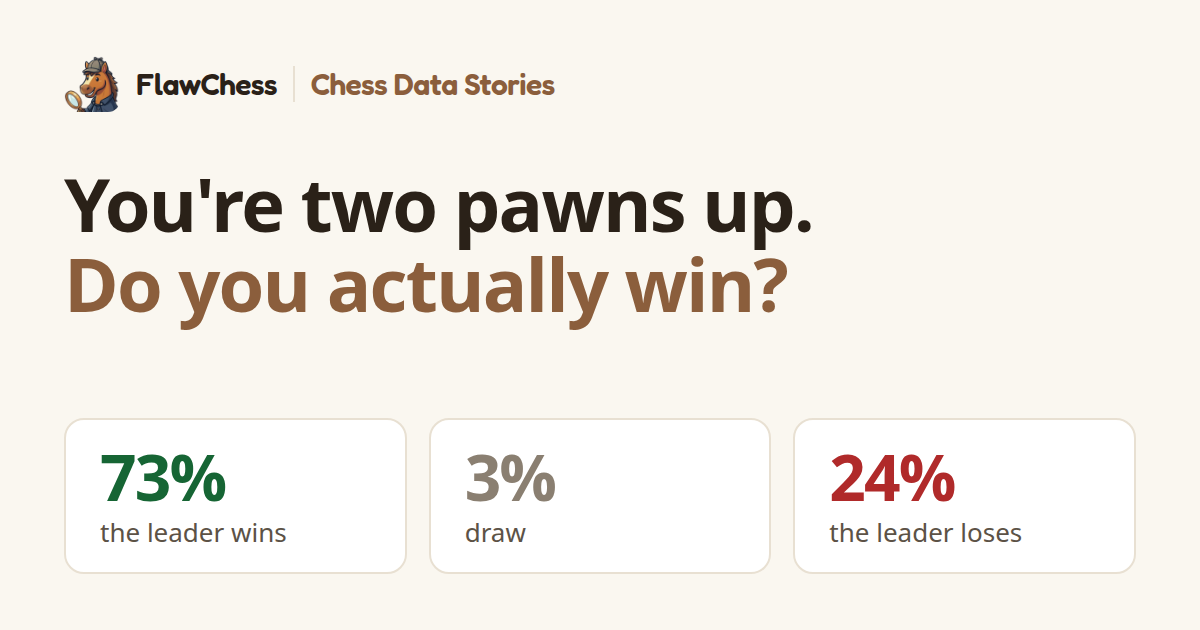
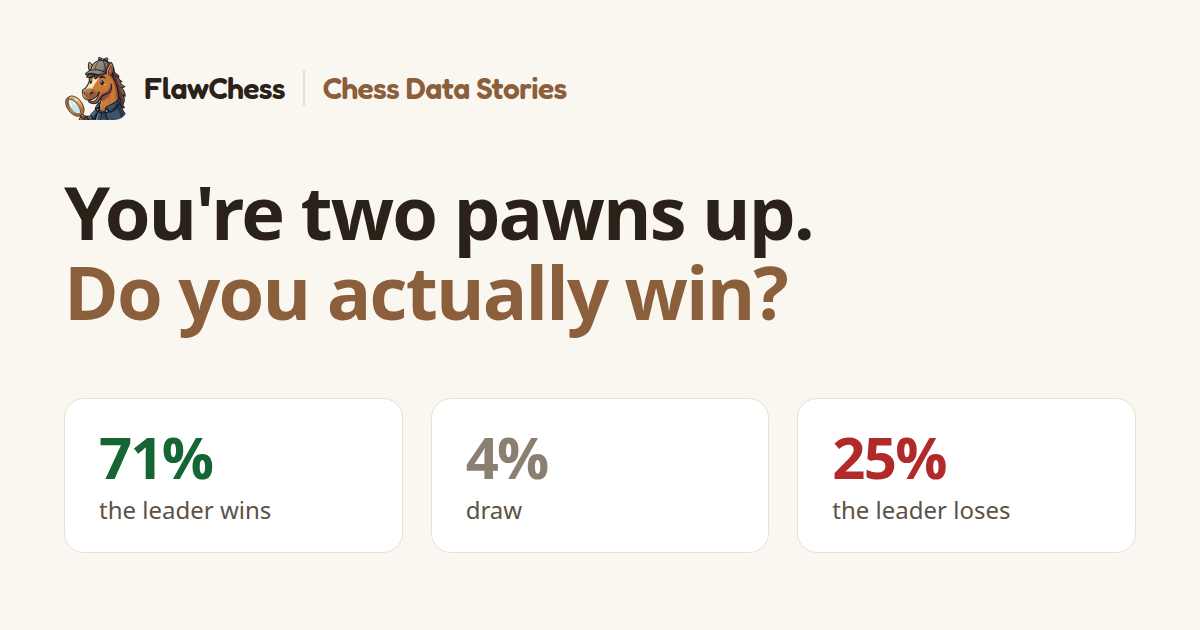
feat(stories): move two-pawns-up story to the equal-footing (v2) basis
Updates every quoted figure, data table, and chart data block to the v2
report (opponents within 100 rating points): hero tiles 73/3/24 -> 71/4/25,
the 2400 leader-loses headline 18.4% -> 21.8% ('more than one in five'),
prevalence, lead-size bands, within-band gradients, and the board/clock
split. Regenerates the social card, softens the masters-hold-better copy to
the shallower gradient, adds the matching filter and selection-tilt notes to
the About box, points the report link at v2, and bumps the sitemap lastmod
plus the landing-card game count.

Claude-Session: https://claude.ai/code/session_01T2jEuk16v2CcJRXQjkZCNT

diff --git a/stories/two-pawns-up/index.html b/stories/two-pawns-up/index.html
@@ -4,33 +4,33 @@
 <meta charset="utf-8">
 <meta name="viewport" content="width=device-width, initial-scale=1">
 <title>Two Pawns Up: Do You Actually Win? | Chess Data Stories</title>
-<meta name="description" content="What 460,604 Lichess games say about converting a two-pawn advantage, by rating and time control. A Chess Data Stories analysis.">
+<meta name="description" content="What 329,518 evenly matched Lichess games say about converting a two-pawn advantage, by rating and time control. A Chess Data Stories analysis.">
 <link rel="canonical" href="https://stories.flawchess.com/two-pawns-up/">
 <link rel="icon" href="../logo.png">
 <meta property="og:type" content="article">
 <meta property="og:site_name" content="Chess Data Stories">
 <meta property="og:title" content="You're two pawns up. Do you actually win?">
-<meta property="og:description" content="What 460,604 Lichess games say about converting a two-pawn advantage, by rating and time control.">
+<meta property="og:description" content="What 329,518 evenly matched Lichess games say about converting a two-pawn advantage, by rating and time control.">
 <meta property="og:url" content="https://stories.flawchess.com/two-pawns-up/">
 <meta property="og:image" content="https://stories.flawchess.com/two-pawns-up/social-card.png">
 <meta property="og:image:width" content="1200">
 <meta property="og:image:height" content="630">
-<meta property="og:image:alt" content="You're two pawns up. Do you actually win? The leader wins 73%, draws 3%, loses 24%.">
+<meta property="og:image:alt" content="You're two pawns up. Do you actually win? The leader wins 71%, draws 4%, loses 25%.">
 <meta property="article:published_time" content="2026-08-15">
 <meta property="article:author" content="Adrian Imfeld">
 <meta property="article:section" content="Chess">
 <meta name="twitter:card" content="summary_large_image">
 <meta name="twitter:title" content="You're two pawns up. Do you actually win?">
-<meta name="twitter:description" content="What 460,604 Lichess games say about converting a two-pawn advantage, by rating and time control.">
+<meta name="twitter:description" content="What 329,518 evenly matched Lichess games say about converting a two-pawn advantage, by rating and time control.">
 <meta name="twitter:image" content="https://stories.flawchess.com/two-pawns-up/social-card.png">
 <script type="application/ld+json">
 {
   "@context": "https://schema.org",
   "@type": "Article",
   "headline": "You're two pawns up. Do you actually win?",
-  "description": "What 460,604 Lichess games say about converting a two-pawn advantage, by rating and time control.",
+  "description": "What 329,518 evenly matched Lichess games say about converting a two-pawn advantage, by rating and time control.",
   "datePublished": "2026-08-15",
-  "dateModified": "2026-08-18",
+  "dateModified": "2026-08-19",
   "url": "https://stories.flawchess.com/two-pawns-up/",
   "mainEntityOfPage": {"@type": "WebPage", "@id": "https://stories.flawchess.com/two-pawns-up/"},
   "image": {"@type": "ImageObject", "url": "https://stories.flawchess.com/two-pawns-up/social-card.png", "width": 1200, "height": 630},
@@ -180,21 +180,22 @@
 <main class="wrap">
 
 <div class="hero">
-  <div class="kicker"><a href="../" data-testid="link-stories-index">A Chess Data Story</a> &middot; <time datetime="2026-08-15">August 15, 2026</time> &middot; 460,604 Lichess games screened</div>
+  <div class="kicker"><a href="../" data-testid="link-stories-index">A Chess Data Story</a> &middot; <time datetime="2026-08-15">August 15, 2026</time> (updated <time datetime="2026-08-19">August 19</time>) &middot; 329,518 Lichess games analyzed</div>
   <h1>You're two pawns up.<br><span class="accent">Do you actually win?</span></h1>
   <p class="sub">In one of our recent exchanges, GM
   Noël Studer of <a href="https://nextlevelchess.com/" data-umami-event="outbound-next-level-chess" data-testid="link-next-level-chess">Next Level Chess</a>
   suggested looking into what actually becomes of a big engine advantage at the end of the opening. So I had a close look at
-  games in the FlawChess benchmark database where a player reached the middlegame with a Stockfish evaluation of
+  games in the FlawChess benchmark database where a player, facing an opponent of nearly the same rating, reached the
+  middlegame with a Stockfish evaluation of
   <b>at least +2.0</b>, the engine's way of saying "about two pawns up". That can mean extra material, a superior
   position, or both. Then I checked how those games actually ended for different rating levels and time controls.
   The answer might change how you think about "winning positions".</p>
   <div class="hero-stats" aria-label="Overall outcomes from a two-pawn-or-better middlegame lead">
-    <div class="tile win"><div class="big">73%</div><div class="lbl">the leader wins</div></div>
-    <div class="tile draw"><div class="big">3%</div><div class="lbl">draw</div></div>
-    <div class="tile loss"><div class="big">24%</div><div class="lbl">the leader <b>loses</b></div></div>
+    <div class="tile win"><div class="big">71%</div><div class="lbl">the leader wins</div></div>
+    <div class="tile draw"><div class="big">4%</div><div class="lbl">draw</div></div>
+    <div class="tile loss"><div class="big">25%</div><div class="lbl">the leader <b>loses</b></div></div>
   </div>
-  <p class="hero-note">All 112,583 games that entered the middlegame at <b>+2.0 or better</b>, all ratings
+  <p class="hero-note">All 82,023 games that entered the middlegame at <b>+2.0 or better</b>, all ratings
   combined. "At least" matters: the median lead here is <b>+3.6 pawns</b>, and a bare two-pawn lead does considerably
   worse than the headline (section 3).</p>
 </div>
@@ -203,7 +204,7 @@
   <div class="card-head"><div class="num">1</div>
   <h2>A two-pawn lead is not a won game, at any level</h2></div>
   <p class="lede">Players who start the middlegame two pawns up or better go on to <b>lose roughly one game in four</b>.
-  And this is not just a beginner problem: even at 2400 Lichess, nearly one of these games in five
+  And this is not just a beginner problem: even at 2400 Lichess, more than one of these games in five
   still ends in defeat for the player who had the advantage.</p>
   <p class="ctitle">Games LOST by the player who entered the middlegame at least two pawns up</p>
   <figure aria-label="Bar chart: how often the leader loses, by rating">
@@ -215,11 +216,11 @@
     <table>
       <thead><tr><th>Rating</th><th>Games with an entry lead</th><th>Median lead</th><th>Leader loses</th></tr></thead>
       <tbody>
-        <tr><td>800</td><td>9,674</td><td>+4.5</td><td>27.3%</td></tr>
-        <tr><td>1200</td><td>29,368</td><td>+4.1</td><td>27%</td></tr>
-        <tr><td>1600</td><td>30,886</td><td>+3.6</td><td>24.7%</td></tr>
-        <tr><td>2000</td><td>24,706</td><td>+3.2</td><td>21.3%</td></tr>
-        <tr><td>2400</td><td>17,949</td><td>+3.0</td><td>18.4%</td></tr>
+        <tr><td>800</td><td>6,998</td><td>+4.4</td><td>27.9%</td></tr>
+        <tr><td>1200</td><td>23,390</td><td>+4.1</td><td>27.9%</td></tr>
+        <tr><td>1600</td><td>24,962</td><td>+3.6</td><td>25.2%</td></tr>
+        <tr><td>2000</td><td>17,469</td><td>+3.1</td><td>22.6%</td></tr>
+        <tr><td>2400</td><td>9,204</td><td>+2.9</td><td>21.8%</td></tr>
       </tbody>
     </table>
   </div></details>
@@ -229,7 +230,7 @@
   <div class="card-head"><div class="num">2</div>
   <h2>Big leads are everywhere at club level, rare among masters</h2></div>
   <p class="lede">At 800, a majority of games (<b>58%</b>) already have a two-pawn advantage
-  for someone when the middlegame starts: openings decide games early. By 2400 that collapses to <b>12%</b>.
+  for someone when the middlegame starts: openings decide games early. By 2400 that collapses to <b>10%</b>.
   Strong players simply don't hand over (or receive) free material in the opening.</p>
   <p class="ctitle">Share of ALL games that begin the middlegame with someone two pawns up</p>
   <figure aria-label="Bar chart: share of games entering the middlegame with a two-pawn advantage, by rating">
@@ -239,11 +240,11 @@
     <table>
       <thead><tr><th>Rating</th><th>Share of games entering with a big lead</th></tr></thead>
       <tbody>
-        <tr><td>800</td><td>58.1%</td></tr>
-        <tr><td>1200</td><td>45.3%</td></tr>
-        <tr><td>1600</td><td>31.2%</td></tr>
-        <tr><td>2000</td><td>19%</td></tr>
-        <tr><td>2400</td><td>12%</td></tr>
+        <tr><td>800</td><td>57.5%</td></tr>
+        <tr><td>1200</td><td>44.5%</td></tr>
+        <tr><td>1600</td><td>30.8%</td></tr>
+        <tr><td>2000</td><td>18.5%</td></tr>
+        <tr><td>2400</td><td>10.3%</td></tr>
       </tbody>
     </table>
   </div></details>
@@ -254,8 +255,8 @@
   <h2>"Two pawns up" usually means more than two pawns</h2></div>
   <p class="lede">Two pawns is the <i>floor</i> of this group, not its typical member. Half of these leads are
   bigger than <b>+3.6 pawns</b>, and roughly one in four is <b>+5 or more</b>, worth about a rook.
-  Size changes everything: a bare two-pawn lead is lost <b>30%</b> of the time, while a five-pawn lead is
-  lost only <b>13.6%</b> of the time. The 24% headline is an average across all of them.</p>
+  Size changes everything: a bare two-pawn lead is lost <b>32%</b> of the time, while a five-pawn lead is
+  lost only <b>14.6%</b> of the time. The 25% headline is an average across all of them.</p>
   <p class="ctitle">Games LOST by the leader, by how big the lead was when the middlegame began</p>
   <figure aria-label="Bar chart: how often the leader loses, by size of the entry advantage">
     <div id="c6"></div>
@@ -267,10 +268,10 @@
     <table>
       <thead><tr><th>Size of the lead</th><th>Games</th><th>Share of games</th><th>Sustained-lead win</th><th>Win after slip</th><th>Draw</th><th>Leader loses</th></tr></thead>
       <tbody>
-        <tr><td>+2 to +3</td><td>40,662</td><td>36.1%</td><td>20.6%</td><td>44.8%</td><td>4.5%</td><td>30.1%</td></tr>
-        <tr><td>+3 to +5</td><td>45,745</td><td>40.6%</td><td>46%</td><td>26.1%</td><td>3.4%</td><td>24.5%</td></tr>
-        <tr><td>+5 to +10</td><td>23,625</td><td>21%</td><td>71.5%</td><td>13.2%</td><td>1.7%</td><td>13.6%</td></tr>
-        <tr><td>+10 or mate</td><td>2,551</td><td>2.3%</td><td>85.4%</td><td>8.3%</td><td>0.6%</td><td>5.7%</td></tr>
+        <tr><td>+2 to +3</td><td>29,561</td><td>36%</td><td>18.9%</td><td>44.9%</td><td>4.4%</td><td>31.8%</td></tr>
+        <tr><td>+3 to +5</td><td>33,691</td><td>41.1%</td><td>43.5%</td><td>27%</td><td>3.6%</td><td>25.9%</td></tr>
+        <tr><td>+5 to +10</td><td>16,938</td><td>20.7%</td><td>69.3%</td><td>14.2%</td><td>1.9%</td><td>14.6%</td></tr>
+        <tr><td>+10 or mate</td><td>1,833</td><td>2.2%</td><td>84.6%</td><td>8.7%</td><td>0.5%</td><td>6.2%</td></tr>
       </tbody>
     </table>
   </div></details>
@@ -282,7 +283,7 @@
   <p class="lede">Split every one of these games into four endings and something odd appears:
   the share of <b>sustained-lead wins</b> (the advantage stays at two pawns or more the whole way
   from middlegame entry to the win) barely moves with
-  rating, sitting near 43% everywhere. It is tempting to conclude that masters are no better at holding on to
+  rating, sitting near 40% everywhere. It is tempting to conclude that masters are no better at holding on to
   a lead. That conclusion is wrong, and the reason is section 3.</p>
   <p class="ctitle">Four outcomes of a two-pawn-or-better middlegame lead</p>
   <div class="legend" id="lg3"></div>
@@ -293,16 +294,16 @@
     <table>
       <thead><tr><th>Rating</th><th>Sustained-lead win</th><th>Win after slip</th><th>Draw</th><th>Leader loses</th></tr></thead>
       <tbody>
-        <tr><td>800</td><td>42.6%</td><td>27.1%</td><td>3%</td><td>27.3%</td></tr>
-        <tr><td>1200</td><td>42.6%</td><td>27.9%</td><td>2.5%</td><td>27%</td></tr>
-        <tr><td>1600</td><td>42.7%</td><td>29.4%</td><td>3.2%</td><td>24.7%</td></tr>
-        <tr><td>2000</td><td>42.6%</td><td>31.8%</td><td>4.2%</td><td>21.3%</td></tr>
-        <tr><td>2400</td><td>45.6%</td><td>31.7%</td><td>4.3%</td><td>18.4%</td></tr>
+        <tr><td>800</td><td>40.8%</td><td>28.2%</td><td>3.1%</td><td>27.9%</td></tr>
+        <tr><td>1200</td><td>41.1%</td><td>28.5%</td><td>2.5%</td><td>27.9%</td></tr>
+        <tr><td>1600</td><td>41.4%</td><td>30.1%</td><td>3.3%</td><td>25.2%</td></tr>
+        <tr><td>2000</td><td>40.6%</td><td>32.4%</td><td>4.4%</td><td>22.6%</td></tr>
+        <tr><td>2400</td><td>39.3%</td><td>34%</td><td>4.8%</td><td>21.8%</td></tr>
       </tbody>
     </table>
   </div></details>
-  <p class="lede" style="margin-top:18px">Weaker players are handed <b>much bigger</b> leads (median +4.5 pawns at 800
-  against +3.0 at 2400), and bigger leads are easier to hold on to. That mix effect exactly cancels the skill effect and
+  <p class="lede" style="margin-top:18px">Weaker players are handed <b>much bigger</b> leads (median +4.4 pawns at 800
+  against +2.9 at 2400), and bigger leads are easier to hold on to. That mix effect swallows the skill effect whole and
   flattens the green bar. Compare like with like, the same size of lead <b>at middlegame entry</b> for every rating,
   and the flatness disappears.</p>
   <p class="ctitle">Sustained-lead wins by rating, holding the size of the entry lead fixed</p>
@@ -311,17 +312,17 @@
     <div id="c7"></div>
   </figure>
   <div class="callout"><span class="tk">Takeaway:</span> masters are better at holding a lead <b>and</b> better at
-  fighting back when it slips. Given the same two-to-three-pawn lead, sustained wins climb from <b>17% at 800 to 27% at
+  fighting back when it slips. Given the same two-to-three-pawn lead, sustained wins climb from <b>16% at 800 to 23% at
   2400</b>. The flat bar in the first chart is an illusion produced by who gets which size of lead.</div>
   <details class="tbl"><summary>View the data</summary><div>
     <table>
       <thead><tr><th>Rating</th><th>Entry lead +2 to +3</th><th>Entry lead +3 to +5</th><th>Entry lead +5 to +10</th><th>All sizes</th></tr></thead>
       <tbody>
-        <tr><td>800</td><td>16.6%</td><td>33.5%</td><td>63.1%</td><td>42.6%</td></tr>
-        <tr><td>1200</td><td>16%</td><td>38.9%</td><td>68%</td><td>42.6%</td></tr>
-        <tr><td>1600</td><td>18.6%</td><td>44.7%</td><td>73.5%</td><td>42.7%</td></tr>
-        <tr><td>2000</td><td>21.8%</td><td>52.2%</td><td>78.4%</td><td>42.6%</td></tr>
-        <tr><td>2400</td><td>26.5%</td><td>59.2%</td><td>84.5%</td><td>45.6%</td></tr>
+        <tr><td>800</td><td>15.6%</td><td>32.2%</td><td>61.5%</td><td>40.8%</td></tr>
+        <tr><td>1200</td><td>15.4%</td><td>38%</td><td>66.3%</td><td>41.1%</td></tr>
+        <tr><td>1600</td><td>17.9%</td><td>43.7%</td><td>72.4%</td><td>41.4%</td></tr>
+        <tr><td>2000</td><td>20.6%</td><td>50.3%</td><td>77.2%</td><td>40.6%</td></tr>
+        <tr><td>2400</td><td>23.2%</td><td>53.6%</td><td>78.6%</td><td>39.3%</td></tr>
       </tbody>
     </table>
   </div></details>
@@ -330,12 +331,12 @@
 <section class="card" id="s5">
   <div class="card-head"><div class="num">5</div>
   <h2>Two ways to lose a won game: outplayed, or flagged</h2></div>
-  <p class="lede">At 800, <b>29%</b> of two-pawn blitz leads end in defeat against <b>22%</b> in classical, so blitz
+  <p class="lede">At 800, <b>30%</b> of two-pawn blitz leads end in defeat against <b>22%</b> in classical, so blitz
   looks like the worst place to hold an advantage. But split those defeats by how the game actually ended and two very
   different problems appear. Losing <b>on the board</b> is a rating problem: the three time controls sit almost on top
-  of each other, falling from roughly 20% at club level to 11&ndash;14% at 2400. Losing <b>on the clock</b> is a
-  time-control problem: blitz leaders flag away <b>7&ndash;9%</b> of these winning positions at every rating, rapid players
-  about 2.5%, classical players about 1%, and getting stronger barely moves it. Those flag falls are genuine
+  of each other, falling from roughly 20% at club level to 13&ndash;16% at 2400. Losing <b>on the clock</b> is a
+  time-control problem: blitz leaders flag away <b>6&ndash;9%</b> of these winning positions at every rating, rapid players
+  about 3%, classical players about 1%, and getting stronger barely moves it. Those flag falls are genuine
   throwaways: in <b>41%</b> of them the engine still had the blitz leader two pawns up on the final move.</p>
   <p class="ctitle">Games LOST by the leader: on the board vs on the clock</p>
   <div class="legend" id="lg4"></div>
@@ -348,28 +349,28 @@
   <div class="callout"><span class="tk">Takeaway:</span> nearly <b>one in three</b> blitz leads that get thrown
   away are thrown away on the clock, not on the board. Improving your chess fixes board losses, but it barely
   touches flagging. If you keep losing won blitz games, part of the cure is not tactics at all, it's the clock:
-  moving from blitz to rapid cuts flag losses from about <b>7% to 2.5%</b> of these winning positions, and classical nearly
-  eliminates them. Only above 2000 does speed also start costing games on the board: at 2400, blitz board losses are
-  <b>14.4%</b> against <b>10.6%</b> in classical.</div>
+  moving from blitz to rapid cuts flag losses from about <b>7% to 3%</b> of these winning positions, and classical nearly
+  eliminates them. Only above 2000 does speed also start costing games on the board: at 2400, with clock-decided games
+  removed from the count entirely, blitz leaders still lose <b>19%</b> of these positions against <b>14%</b> in classical.</div>
   <details class="tbl"><summary>View the data</summary><div>
     <table>
       <thead><tr><th>Rating</th><th>Time control</th><th>Lost on the board</th><th>Lost on the clock</th><th>Disconnect</th><th>Total lost</th><th>Board only*</th></tr></thead>
       <tbody>
-        <tr><td>800</td><td>Blitz</td><td>19.6%</td><td>9.3%</td><td>0.6%</td><td>29.4%</td><td>24.8%</td></tr>
-        <tr><td>800</td><td>Rapid</td><td>22.4%</td><td>2.7%</td><td>0.8%</td><td>25.9%</td><td>24.6%</td></tr>
-        <tr><td>800</td><td>Classical</td><td>19%</td><td>0.7%</td><td>2.2%</td><td>21.9%</td><td>21.2%</td></tr>
-        <tr><td>1200</td><td>Blitz</td><td>21.1%</td><td>8.4%</td><td>0.5%</td><td>30%</td><td>26.3%</td></tr>
-        <tr><td>1200</td><td>Rapid</td><td>23.6%</td><td>2.2%</td><td>0.7%</td><td>26.6%</td><td>25.6%</td></tr>
-        <tr><td>1200</td><td>Classical</td><td>21.7%</td><td>0.6%</td><td>1.2%</td><td>23.5%</td><td>23%</td></tr>
-        <tr><td>1600</td><td>Blitz</td><td>19.9%</td><td>6.5%</td><td>0.3%</td><td>26.8%</td><td>24%</td></tr>
-        <tr><td>1600</td><td>Rapid</td><td>21.7%</td><td>2.4%</td><td>0.6%</td><td>24.7%</td><td>23.6%</td></tr>
-        <tr><td>1600</td><td>Classical</td><td>21%</td><td>1.4%</td><td>1%</td><td>23.3%</td><td>22.6%</td></tr>
-        <tr><td>2000</td><td>Blitz</td><td>16.1%</td><td>8.1%</td><td>0.2%</td><td>24.4%</td><td>19.9%</td></tr>
-        <tr><td>2000</td><td>Rapid</td><td>18.6%</td><td>2.9%</td><td>0.3%</td><td>21.8%</td><td>20.3%</td></tr>
-        <tr><td>2000</td><td>Classical</td><td>16.3%</td><td>1%</td><td>0.5%</td><td>17.8%</td><td>17.2%</td></tr>
-        <tr><td>2400</td><td>Blitz</td><td>14.4%</td><td>6.8%</td><td>0.2%</td><td>21.4%</td><td>17.4%</td></tr>
-        <tr><td>2400</td><td>Rapid</td><td>13.1%</td><td>2.7%</td><td>0.2%</td><td>15.9%</td><td>14.2%</td></tr>
-        <tr><td>2400</td><td>Classical</td><td>10.6%</td><td>0.9%</td><td>0.5%</td><td>12.1%</td><td>11.3%</td></tr>
+        <tr><td>800</td><td>Blitz</td><td>20.1%</td><td>9.4%</td><td>0.6%</td><td>30.1%</td><td>25.6%</td></tr>
+        <tr><td>800</td><td>Rapid</td><td>22.5%</td><td>2.6%</td><td>1%</td><td>26.1%</td><td>24.7%</td></tr>
+        <tr><td>800</td><td>Classical</td><td>18.3%</td><td>0.5%</td><td>2.9%</td><td>21.6%</td><td>20.9%</td></tr>
+        <tr><td>1200</td><td>Blitz</td><td>21.4%</td><td>8.5%</td><td>0.5%</td><td>30.4%</td><td>26.7%</td></tr>
+        <tr><td>1200</td><td>Rapid</td><td>23.9%</td><td>2.3%</td><td>0.7%</td><td>26.9%</td><td>25.9%</td></tr>
+        <tr><td>1200</td><td>Classical</td><td>23.5%</td><td>0.6%</td><td>1.4%</td><td>25.4%</td><td>25.1%</td></tr>
+        <tr><td>1600</td><td>Blitz</td><td>20.3%</td><td>6.2%</td><td>0.4%</td><td>26.9%</td><td>24.3%</td></tr>
+        <tr><td>1600</td><td>Rapid</td><td>21.9%</td><td>2.4%</td><td>0.6%</td><td>24.9%</td><td>23.7%</td></tr>
+        <tr><td>1600</td><td>Classical</td><td>21.8%</td><td>1.4%</td><td>1%</td><td>24.2%</td><td>23.5%</td></tr>
+        <tr><td>2000</td><td>Blitz</td><td>17.4%</td><td>7.9%</td><td>0.2%</td><td>25.5%</td><td>21.5%</td></tr>
+        <tr><td>2000</td><td>Rapid</td><td>19.1%</td><td>3%</td><td>0.3%</td><td>22.3%</td><td>20.9%</td></tr>
+        <tr><td>2000</td><td>Classical</td><td>18.1%</td><td>1.2%</td><td>0.5%</td><td>19.8%</td><td>19.2%</td></tr>
+        <tr><td>2400</td><td>Blitz</td><td>15.6%</td><td>7.4%</td><td>0.2%</td><td>23.2%</td><td>19.2%</td></tr>
+        <tr><td>2400</td><td>Rapid</td><td>16.3%</td><td>3.5%</td><td>0.2%</td><td>20%</td><td>17.8%</td></tr>
+        <tr><td>2400</td><td>Classical</td><td>12.9%</td><td>1.4%</td><td>0%</td><td>14.3%</td><td>13.6%</td></tr>
       </tbody>
     </table>
     <p style="margin-top:10px;color:var(--ink-mid)">* Share of losses among games that were actually decided on the
@@ -393,33 +394,37 @@
     game were undecided, because it is.</li>
     <li><b>Holding a lead is its own skill.</b> Given the same size of lead at middlegame entry,
     sustained-lead wins (the lead never dips below two pawns for the rest of the game) climb steadily
-    with rating: 17% at 800 to 27% at 2400 for a two-to-three-pawn entry lead. Winning the material
+    with rating: 16% at 800 to 23% at 2400 for a two-to-three-pawn entry lead. Winning the material
     was only half the work; the other half is the unglamorous part, trading down and shutting off
     counterplay.</li>
     <li><b>Losing won blitz games? The fix may be a slower time control, not more tactics.</b> Blitz
-    leaders flag away 7&ndash;9% of these games at every rating, and getting stronger barely helps.
-    Playing rapid instead cuts that to about 2.5%, and classical nearly eliminates it.</li>
+    leaders flag away 6&ndash;9% of these games at every rating, and getting stronger barely helps.
+    Playing rapid instead cuts that to about 3%, and classical nearly eliminates it.</li>
   </ul>
 </section>
 
 <footer class="site">
   <div class="box">
     <h2>About this analysis</h2>
-    <p style="margin-top:8px">I analyzed <b>460,604 Lichess games</b> (blitz, rapid and classical) with full
-    Stockfish evaluations, across five rating groups from 800 to 2400. "Two pawns up" means the engine evaluation
+    <p style="margin-top:8px">I analyzed <b>329,518 Lichess games</b> (blitz, rapid and classical) with full
+    Stockfish evaluations, across five rating groups from 800 to 2400, keeping only games between opponents within
+    100 rating points of each other (460,604 games before that matching filter; the first version of this story
+    skipped it, which flattered the 2400 numbers by a few points). "Two pawns up" means the engine evaluation
     reached &ge; 200 centipawns for one side at the first move of the middlegame. Where the middlegame starts is
     decided by Lichess's own phase rules (the same division you see on its analysis board, based on piece counts,
     back-rank development, and how entangled the two sides' pieces are). Full methodology, exact queries,
     and every table are in the technical report. GM Noël Studer suggested the question; the analysis, and any
     errors in it, are mine.</p>
     <p style="margin-top:10px">
-      <a href="https://github.com/flawchess/flawchess/blob/main/stories/two-pawns-up/two-pawns-up-report.md" data-umami-event="outbound-report-two-pawns-up">Read the technical report</a>
+      <a href="https://github.com/flawchess/flawchess/blob/main/stories/two-pawns-up/two-pawns-up-report-v2.md" data-umami-event="outbound-report-two-pawns-up">Read the technical report</a>
       &middot;
       <a href="https://github.com/flawchess/flawchess/blob/main/reports/benchmark/benchmarks-latest.md" data-umami-event="outbound-report-benchmarks">Browse the benchmark database</a>
     </p>
     <p class="fineprint">Data: Lichess games with server-side Stockfish analysis, which players request themselves,
-    so these are not a uniform sample of Lichess. Ratings are Lichess ratings at the time each game was played,
-    grouped into 400-point bands, and opponents are rating-matched. This is an engine evaluation, not a material
+    so these are not a uniform sample of Lichess; analyzed games also lean toward the games their players wanted
+    examined, often losses, so the absolute rates carry some selection tilt (the technical report quantifies it).
+    Ratings are Lichess ratings at the time each game was played, grouped into 400-point bands, and only games
+    where the two players were within 100 rating points of each other are counted. This is an engine evaluation, not a material
     count: a position can be worth +2.0 with the material dead level. "Two pawns up" is a floor, not a description:
     the median lead in this group is +3.6 pawns, which is why section 3 breaks the results out by lead size.
     Section 5 splits losses by Lichess's own game-termination field; "abandoned" (a disconnect) is counted
@@ -461,48 +466,48 @@
 const RATINGS=[800,1200,1600,2000,2400];
 const COL={win:"#166534",win2:"#5F901A",draw:"#8A7F71",loss:"#B02A2A",
            blitz:"#C97A00",rapid:"#3B82F6",classical:"#166534",brown:"#8B5E3C"};
-const OUTCOME={ // % of entry-lead games per rating
-  sustained:[42.6,42.6,42.7,42.6,45.6],
-  comeback:[27.1,27.9,29.4,31.8,31.7],
-  draw:[3.0,2.5,3.2,4.2,4.3],
-  loss:[27.3,27.0,24.7,21.3,18.4],
-  n:[9674,29368,30886,24706,17949]
+const OUTCOME={ // % of entry-lead games per rating (v2 equal-footing basis)
+  sustained:[40.8,41.1,41.4,40.6,39.3],
+  comeback:[28.2,28.5,30.1,32.4,34.0],
+  draw:[3.1,2.5,3.3,4.4,4.8],
+  loss:[27.9,27.9,25.2,22.6,21.8],
+  n:[6998,23390,24962,17469,9204]
 };
-const PREVALENCE=[58.1,45.3,31.2,19.0,12.0]; // % of all games entering MG two pawns up
+const PREVALENCE=[57.5,44.5,30.8,18.5,10.3]; // % of all games entering MG two pawns up
 /* Report §5: leader losses split by how the game ended, as % of that cell's entry-lead
    games. board+clock+abandoned sums to the §2 "leader loses" total for the cell
    (a displayed component can be a rounding tick off the total). */
 const TC={
-  blitz:{label:"Blitz",n:[4492,9393,7988,6219,8851],
-    board:[19.6,21.1,19.9,16.1,14.4],clock:[9.3,8.4,6.5,8.1,6.8],aband:[0.6,0.5,0.3,0.2,0.2],
-    total:[29.4,30.0,26.8,24.4,21.4],boardOnly:[24.8,26.3,24.0,19.9,17.4]},
-  rapid:{label:"Rapid",n:[4598,13572,10987,11397,8327],
-    board:[22.4,23.6,21.7,18.6,13.1],clock:[2.7,2.2,2.4,2.9,2.7],aband:[0.8,0.7,0.6,0.3,0.2],
-    total:[25.9,26.6,24.7,21.8,15.9],boardOnly:[24.6,25.6,23.6,20.3,14.2]},
-  classical:{label:"Classical",n:[584,6403,11911,7090,771],
-    board:[19.0,21.7,21.0,16.3,10.6],clock:[0.7,0.6,1.4,1.0,0.9],aband:[2.2,1.2,1.0,0.5,0.5],
-    total:[21.9,23.5,23.3,17.8,12.1],boardOnly:[21.2,23.0,22.6,17.2,11.3]}
+  blitz:{label:"Blitz",n:[3307,8098,6752,4671,5496],
+    board:[20.1,21.4,20.3,17.4,15.6],clock:[9.4,8.5,6.2,7.9,7.4],aband:[0.6,0.5,0.4,0.2,0.2],
+    total:[30.1,30.4,26.9,25.5,23.2],boardOnly:[25.6,26.7,24.3,21.5,19.2]},
+  rapid:{label:"Rapid",n:[3483,11597,9400,8634,3568],
+    board:[22.5,23.9,21.9,19.1,16.3],clock:[2.6,2.3,2.4,3.0,3.5],aband:[1.0,0.7,0.6,0.3,0.2],
+    total:[26.1,26.9,24.9,22.3,20.0],boardOnly:[24.7,25.9,23.7,20.9,17.8]},
+  classical:{label:"Classical",n:[208,3695,8810,4164,140],
+    board:[18.3,23.5,21.8,18.1,12.9],clock:[0.5,0.6,1.4,1.2,1.4],aband:[2.9,1.4,1.0,0.5,0.0],
+    total:[21.6,25.4,24.2,19.8,14.3],boardOnly:[20.9,25.1,23.5,19.2,13.6]}
 };
 /* Report §4: the >=200cp cohort cut by how big the entry lead actually was.
-   Band counts sum exactly to the §2 totals (112,583 games). */
+   Band counts sum exactly to the §2 totals (82,023 games). */
 const LEADSIZE={
   label:["+2 to +3","+3 to +5","+5 to +10","+10 or mate"],
   shortLabel:["+2–3","+3–5","+5–10","+10/mate"], // narrow screens: full labels collide
-  n:[40662,45745,23625,2551],
-  share:[36.1,40.6,21.0,2.3],          // % of all entry-lead games
-  sustained:[20.6,46.0,71.5,85.4],
-  comeback:[44.8,26.1,13.2,8.3],
-  draw:[4.5,3.4,1.7,0.6],
-  loss:[30.1,24.5,13.6,5.7]
+  n:[29561,33691,16938,1833],
+  share:[36.0,41.1,20.7,2.2],          // % of all entry-lead games
+  sustained:[18.9,43.5,69.3,84.6],
+  comeback:[44.9,27.0,14.2,8.7],
+  draw:[4.4,3.6,1.9,0.5],
+  loss:[31.8,25.9,14.6,6.2]
 };
 /* Report §4: sustained-lead win % by rating, holding lead size fixed. The flat
    aggregate row is Simpson's paradox — within every band the trend is steep. */
 const SUSTBYBAND=[
-  {key:"b1",label:"+2 to +3",  v:[16.6,16.0,18.6,21.8,26.5],loss:[34.9,36.3,32.2,27.7,24.2],c:"#BC9560"},
-  {key:"b2",label:"+3 to +5",  v:[33.5,38.9,44.7,52.2,59.2],loss:[32.9,30.2,25.7,19.1,15.0],c:"#96663F"},
-  {key:"b3",label:"+5 to +10", v:[63.1,68.0,73.5,78.4,84.5],loss:[19.0,15.9,12.6,8.6,4.8], c:"#6B4226"}
+  {key:"b1",label:"+2 to +3",  v:[15.6,15.4,17.9,20.6,23.2],loss:[34.5,37.2,32.4,29.1,27.1],c:"#BC9560"},
+  {key:"b2",label:"+3 to +5",  v:[32.2,38.0,43.7,50.3,53.6],loss:[33.6,30.9,26.0,20.0,17.9],c:"#96663F"},
+  {key:"b3",label:"+5 to +10", v:[61.5,66.3,72.4,77.2,78.6],loss:[19.5,16.6,13.2,9.1,6.4], c:"#6B4226"}
 ];
-const SUSTAGG=[42.6,42.6,42.7,42.6,45.6];   // all lead sizes combined (the illusion)
+const SUSTAGG=[40.8,41.1,41.4,40.6,39.3];   // all lead sizes combined (the illusion)
 /* Report §3 (blunder timing) is deliberately NOT surfaced on this page. Its
    after-entry "leader blunders 1.2x more" result is confounded by blunder
    headroom: a blunder means losing >=15 percentage points of winning chances,

diff --git a/stories/index.html b/stories/index.html
@@ -103,7 +103,7 @@ Lichess games with full Stockfish evaluations, across every rating level and tim
 <a class="story" href="two-pawns-up/">
   <div class="date">August 15, 2026</div>
   <h2>You're two pawns up. Do you actually win?</h2>
-  <p>460,604 games say a "winning position" is a promise you still have to keep: players who reach the
+  <p>329,518 evenly matched games say a "winning position" is a promise you still have to keep: players who reach the
   middlegame at a Stockfish evaluation of +2.0 or better lose roughly one game in four, and a bare two-pawn
   lead goes down almost a third of the time. Plus the two ways a won game is lost: outplayed, or flagged.</p>
   <span class="go">Read the story &rarr;</span>
